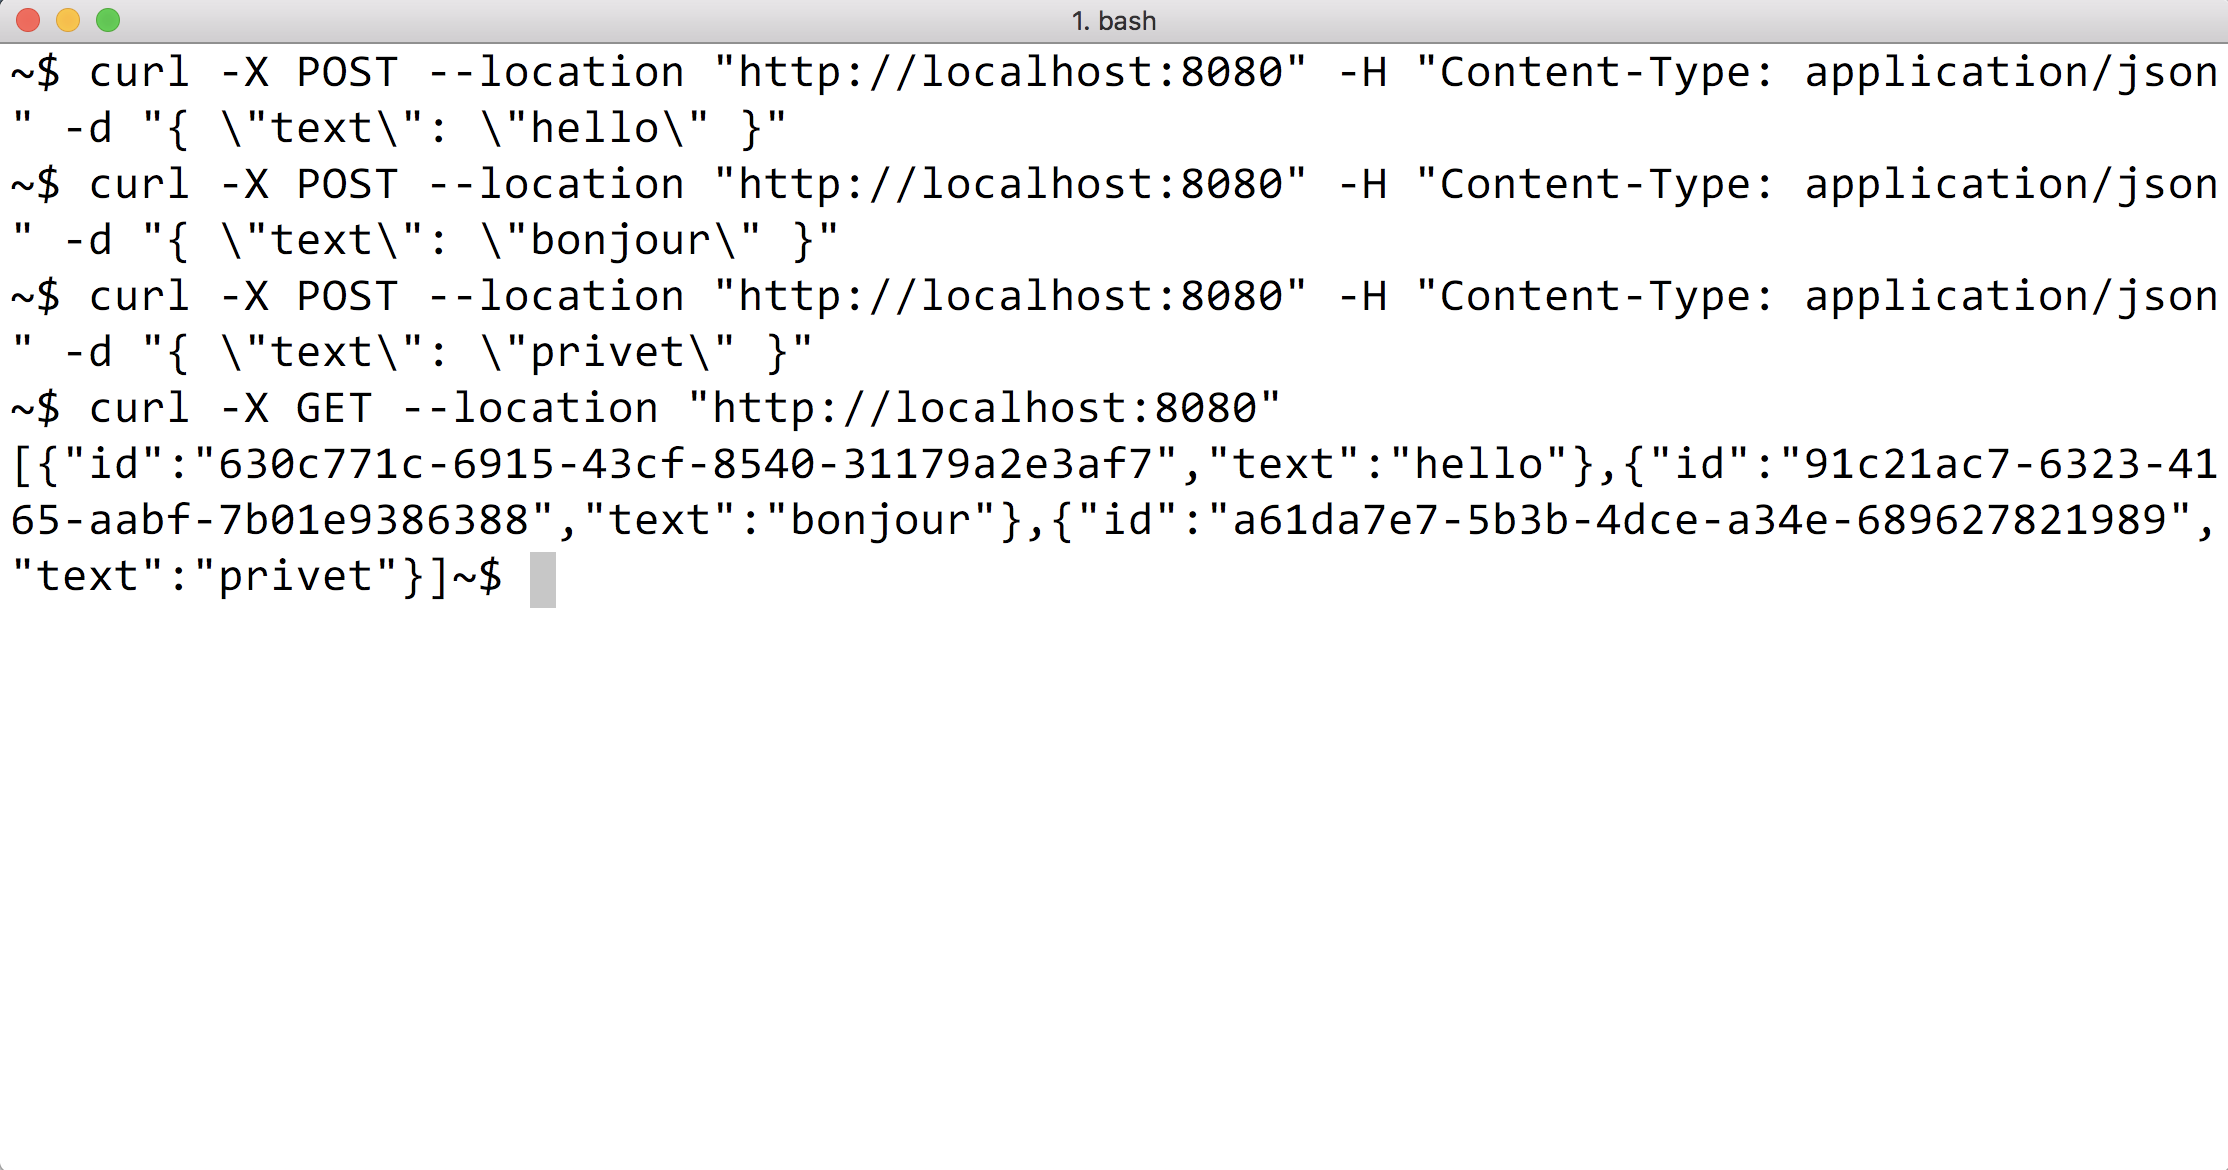
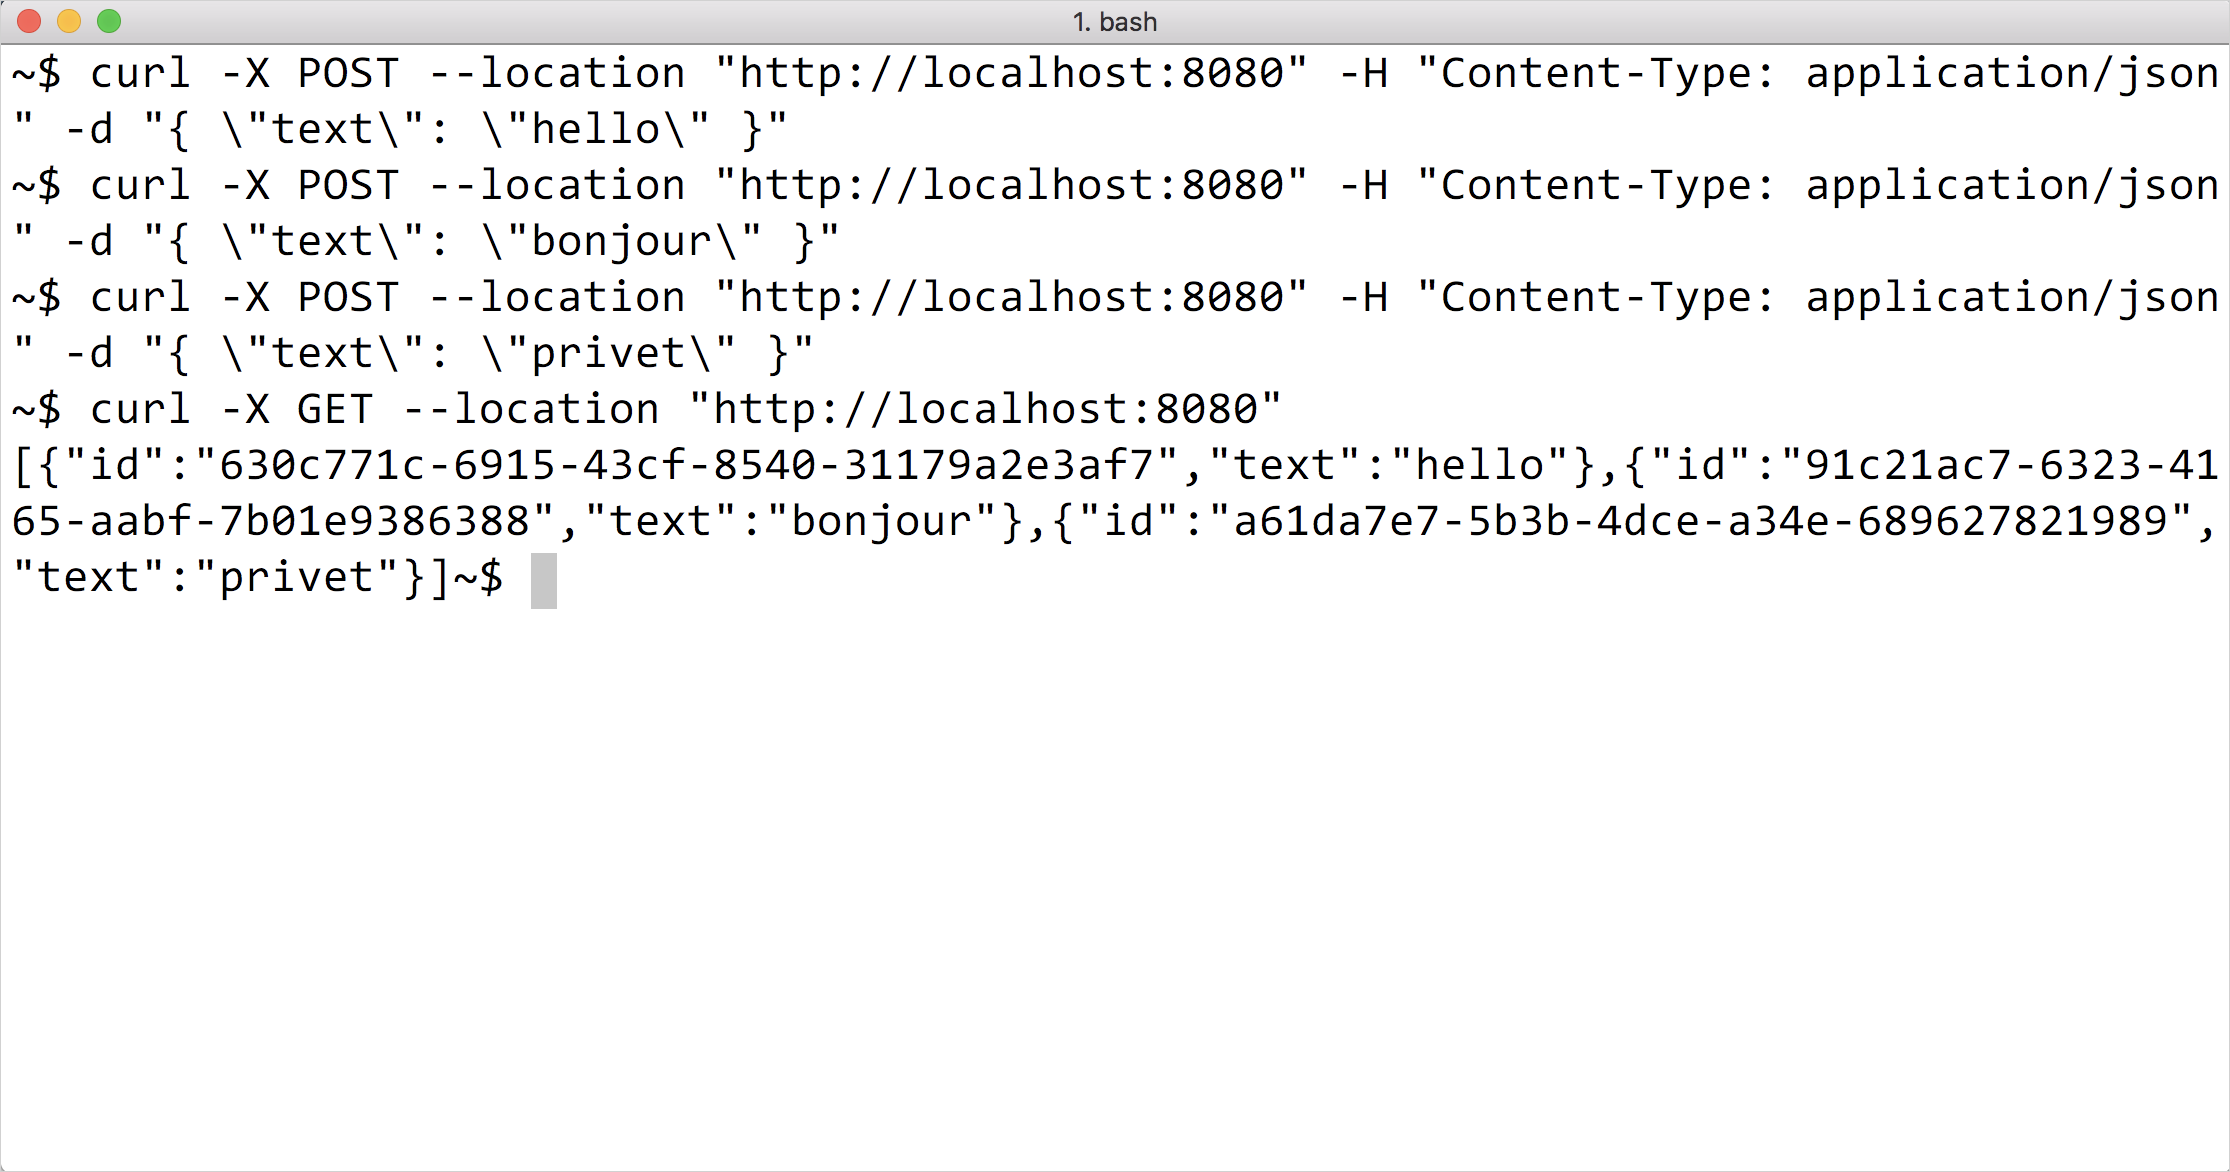
update: regular update

diff --git a/docs/topics/jvm/jvm-create-spring-boot-restful-web-service.md b/docs/topics/jvm/jvm-create-spring-boot-restful-web-service.md
@@ -1,19 +1,8 @@
 [//]: # (title: Create a RESTful web service with Spring Boot)
 
-
-<!-- Create the project -->
-  Explore the project build file
-  Explore the Spring Boot application
-Create a data class and a controller 
-Run the application
---
-Add the database support
-Run the final application 
-
-
 This tutorial walks you through the process of creating a simple application with Spring Boot. 
 First, you will create an application with the HTTP endpoint that returns a data objects list in the JSON format.
-In the next tutorial, you'll add another endpoint to write the data and the database support for storing it.
+In the next tutorial, you'll add another endpoint to write the data, and the database support for storing it.
 
 ## Bootstrap the project
 
@@ -172,7 +161,7 @@ data class Message(@Id val id: String?, val text: String)
 
 Application is ready to run:
 
-1. Click the green __Run__ icon in the gutter to the `main` method or hit the **Alt+Enter** shortcut to invoke the launch menu in IntelliJ IDEA:
+1. Click the green **Run** icon in the gutter to the `main` method or hit the **Alt+Enter** shortcut to invoke the launch menu in IntelliJ IDEA:
 
     ![Run the application](spring-boot-run-the-application.png){width=800}
     
@@ -186,20 +175,20 @@ Application is ready to run:
 
 ## Add database support
 
-In the following step, we will demonstrate how to integrate our application with a real database to store the messages.
+In this section, you will create two endpoints to save and return the messages to the database:
 
-1. Add `Message` class mapping to a database table. This is done by using `@Table` annotation:
+1. Add the `@Table` annotation to the `Message` class to declare mapping to a database table. 
+  The annotation also requires an additional import:
 
     ```kotlin
     import org.springframework.data.annotation.Id
     import org.springframework.data.relational.core.mapping.Table
     
-    
     @Table("MESSAGES")
     data class Message(@Id val id: String?, val text: String)
     ```
 
-2. Use the Spring Data Repository API to access the database:
+2. Use the [Spring Data Repository API](https://docs.spring.io/spring-data/commons/docs/current/api/org/springframework/data/repository/CrudRepository.html) to access the database:
 
     ```kotlin
     import org.springframework.data.jdbc.repository.query.Query
@@ -212,9 +201,16 @@ In the following step, we will demonstrate how to integrate our application with
     }
     ```
 
-    Calling the `findMessages` method on an instance of `MessageRepository` will execute the corresponding database query, `select * from messages`. As a result, we will retrieve a list of `Message` objects.
+    When you call the `findMessages` method on an instance of `MessageRepository`, it will execute the corresponding database query:
 
-3. Use the `MessageRepository` from within the service layer implemented by `MessageService` class:  
+    ```sql
+    `select * from messages`
+   ```
+
+   This query retrieves a list of all `Message` objects in the database table.
+
+
+3. Create the `MessageService` class:
 
     ```kotlin
     import org.springframework.stereotype.Service
@@ -230,7 +226,11 @@ In the following step, we will demonstrate how to integrate our application with
     }
     ```
 
-4. Finally, `MessageResource` will make use of the new service:
+    It contains two methods:
+     * `post()` to sent a new `Message` object to the database
+     * `findMessages()` to get all the message from the database
+
+4. Update the `MessageResource` class:
   
     ```kotlin
     import org.springframework.web.bind.annotation.RequestBody
@@ -249,16 +249,17 @@ In the following step, we will demonstrate how to integrate our application with
     }
     ```
 
+    Now it uses `MessageService` to work with database.
+
 ## Configure the database
 
-1. Create a new folder called `sql` in the `src/main/resources`.
+Configure the database in the application:
+
+1. Create a new folder called `sql` in the `src/main/resources` with the `scheme.sql` file inside. It will store the database scheme:
 
     ![Create a new folder](spring-boot-sql-scheme.png)
 
-2. We have added database support to the application. Now we need to configure the database. 
-   Then put the SQL code into the `src/main/resources/sql/schema.sql` file:
-   
-   Since this is a demo project, we will not be designing anything complex and we’ll stick to the following structure:
+2. Update the `src/main/resources/sql/schema.sql` file with the following code:
 
     ```sql
     CREATE TABLE IF NOT EXISTS messages (
@@ -267,7 +268,9 @@ In the following step, we will demonstrate how to integrate our application with
     );
     ```
 
-1. Open the `application.properties` located in the `src/main/resources` folder, and add the following application properties:
+   It creates the `messages` table with two fields inside: `id` and `text`. The table structure is the same as `Message` class.
+   
+3. Open the `application.properties` located in the `src/main/resources` folder, and add the following application properties:
 
     ```properties
     spring.datasource.driver-class-name=org.h2.Driver
@@ -278,17 +281,19 @@ In the following step, we will demonstrate how to integrate our application with
     spring.datasource.initialization-mode=always
     ```
 
-See the full list of common application properties in the [Spring documentation](https://docs.spring.io/spring-boot/docs/current/reference/html/appendix-application-properties.html).
+    These settings enable the Spring Boot application work with the database.
+    See the full list of common application properties in the [Spring documentation](https://docs.spring.io/spring-boot/docs/current/reference/html/appendix-application-properties.html).
 
 ## Run the final application
 
-Let’s run the application again and see how it behaves. Once the application is up and running, we can execute a few post request to store some message in the database.
+You should use an HTTP client to work with previously created endpoints.
+In IntelliJ IDEA, you can do that by using the embedded [HTTP client](https://www.jetbrains.com/help/idea/http-client-in-product-code-editor.html): 
 
-In IntelliJ IDEA, we can do that by using the embedded [HTTP client](https://www.jetbrains.com/help/idea/http-client-in-product-code-editor.html). Create a file with the .http extension and add a few requests there:
+1. [Run the application](#run-the-application). Once the application is up and running, you can execute a few POST request to store messages in the database.
 
-1. Create a file with the `.http` extension and add the following requests there:
+1. Create the `request.http` file and add the following HTTP requests:
 
-    ```HTTP
+    ```http request
     ### Post 'Hello!"
     POST http://localhost:8080/
     Content-Type: application/json
@@ -319,10 +324,10 @@ In IntelliJ IDEA, we can do that by using the embedded [HTTP client](https://www
     GET http://localhost:8080/
     ```
 
-2. Execute all `POST` requests.
+2. Execute all `POST` requests. Use the green **Run** icon in the gutter to the request declaration.
    These requests write the text messages to the database.
-   
-   ![Run HTTP POST requests](spring-boot-run-http-request.png)
+    
+    ![Run HTTP POST requests](spring-boot-run-http-request.png)
 
 3. Execute the `GET` request and see the result in the **Run** tool window:
 
@@ -333,11 +338,11 @@ In IntelliJ IDEA, we can do that by using the embedded [HTTP client](https://www
 > You can also use any other HTTP client or cURL command-line tool. For example, you can run the following commands in the terminal to get the same result:
 > 
 > ```cURL
-> curl -X POST --location "http://localhost:8080" -H "Content-Type: application/json" -d "{ \"text\": \"hello\" }"
+> curl -X POST --location "http://localhost:8080" -H "Content-Type: application/json" -d "{ \"text\": \"Hello!\" }"
 >
-> curl -X POST --location "http://localhost:8080" -H "Content-Type: application/json" -d "{ \"text\": \"bonjour\" }"
+> curl -X POST --location "http://localhost:8080" -H "Content-Type: application/json" -d "{ \"text\": \"Bonjour!\" }"
 > 
-> curl -X POST --location "http://localhost:8080" -H "Content-Type: application/json" -d "{ \"text\": \"privet\" }"
+> curl -X POST --location "http://localhost:8080" -H "Content-Type: application/json" -d "{ \"text\": \"Privet!\" }"
 > 
 > curl -X GET --location "http://localhost:8080"
 > ```
